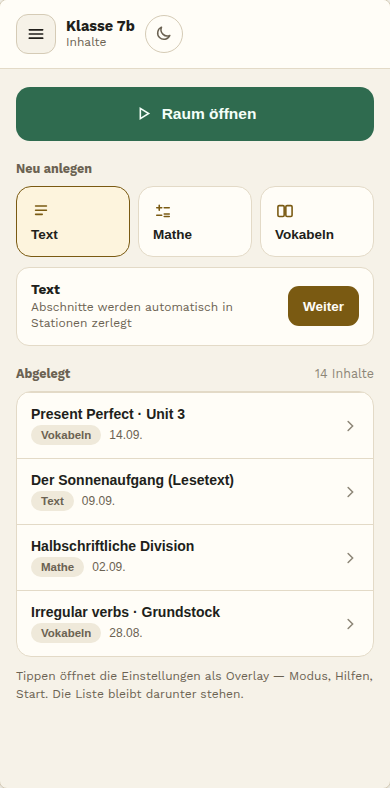
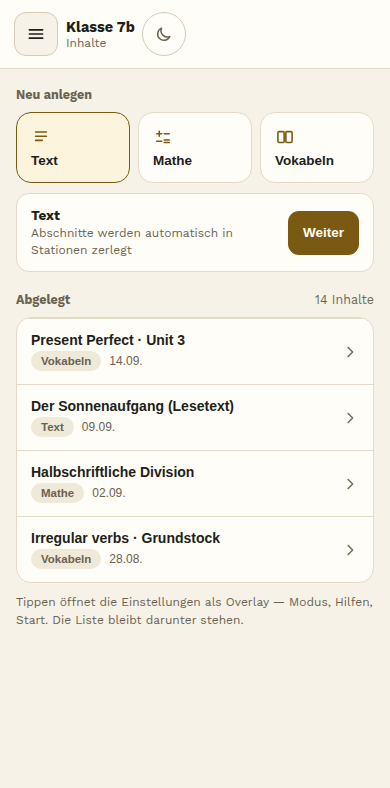
Lehrer-Inhalte: Knopf „Raum öffnen“ entfernt; Raum öffnet über Inhaltsart oder Eintrag
Claude-Session: https://claude.ai/code/session_01EHbnEvkH6C3v5ax3HGtdKW

diff --git a/app/views/lehrer/content-library-screen.tsx b/app/views/lehrer/content-library-screen.tsx
@@ -73,12 +73,11 @@ export type ContentLibraryScreenProps = {
   onEdit?: (id: string) => void;
   /** Zeigt „Zuordnen“ je Zeile (Ansicht „Nicht zugeordnet“). */
   onAssign?: (id: string) => void;
-  onOpenRoom?: () => void;
 };
 
 /**
  * Inhalte des Lehrerbereichs (Design 3c mobil, 3d Desktop): Neu anlegen,
- * Ablage und der große Knopf „Raum öffnen“. Läuft im `TeacherFrame` und
+ * Ablage. Der Raum wird über eine Inhaltsart oder einen Eintrag geöffnet. Läuft im `TeacherFrame` und
  * reagiert auf dessen Breite.
  */
 export function ContentLibraryScreen(props: ContentLibraryScreenProps) {
@@ -95,13 +94,10 @@ export function ContentLibraryScreen(props: ContentLibraryScreenProps) {
     onOpen,
     onEdit,
     onAssign,
-    onOpenRoom,
   } = props;
   const selected = KINDS[kind];
   return (
     <div className={styles.content}>
-      <OpenRoomButton className={styles.openTop} onClick={onOpenRoom} />
-
       <section className={styles.section} aria-labelledby="neu-anlegen">
         <span id="neu-anlegen" className={styles.label}>
           Neu anlegen
@@ -237,37 +233,11 @@ export function ContentLibraryScreen(props: ContentLibraryScreenProps) {
         {footnote ? <p className={styles.footnote}>{footnote}</p> : null}
       </section>
 
-      <OpenRoomButton className={styles.openBottom} onClick={onOpenRoom} />
       {notice ? (
         <aside className={styles.notice} aria-label="Hinweis">
           {notice}
         </aside>
       ) : null}
     </div>
-  );
-}
-
-function OpenRoomButton({
-  className,
-  onClick,
-}: {
-  className: string;
-  onClick: (() => void) | undefined;
-}) {
-  return (
-    <button type="button" className={className} onClick={onClick}>
-      <svg
-        viewBox="0 0 24 24"
-        fill="none"
-        stroke="currentColor"
-        strokeWidth="2"
-        strokeLinecap="round"
-        aria-hidden="true"
-        focusable="false"
-      >
-        <path d="M8 5.5 18.5 12 8 18.5z" />
-      </svg>
-      Raum öffnen
-    </button>
   );
 }

diff --git a/e2e/platform-quality.spec.ts b/e2e/platform-quality.spec.ts
@@ -677,11 +677,15 @@ test("teachers can prepare every native live-room content type", async ({
     page.getByText("Dieses Gerät ist die Schutzgrenze."),
   ).toHaveCount(1);
   await expect(page.getByText("Lehrer-Login")).toHaveCount(0);
-  // Der große Knopf „Raum öffnen“ führt zum Laufdiktat (mobil oben, am Desktop unten).
-  await expect(async () => {
-    await page.getByRole("button", { name: "Raum öffnen" }).first().click();
-    await expect(page).toHaveURL(/\/lehrer\/live$/, { timeout: 1500 });
-  }).toPass();
+  // Kein eigener Knopf „Raum öffnen“: Eine Inhaltsart führt zum Laufdiktat
+  // (mobil wählt die Kachel nur, „Weiter“ öffnet).
+  await expect(page.getByRole("button", { name: "Raum öffnen" })).toHaveCount(
+    0,
+  );
+  await page.getByRole("button", { name: /^Mathe/ }).click();
+  const next = page.getByRole("button", { name: "Weiter", exact: true });
+  if (await next.isVisible()) await next.click();
+  await expect(page).toHaveURL(/\/lehrer\/live\?neu=math/);
   await page.goBack();
   await expect(
     page.getByRole("heading", { name: "Wortliste vorbereiten" }),

diff --git a/app/views/lehrer/content-library-screen.module.css b/app/views/lehrer/content-library-screen.module.css
@@ -20,41 +20,8 @@
   color: var(--ink2);
 }
 .wideOnly,
-.openBottom,
 .tileText {
   display: none;
-}
-
-/* ---------- Raum öffnen ---------- */
-.openTop,
-.openBottom {
-  align-items: center;
-  gap: 9px;
-  border: 0;
-  background: var(--green);
-  color: var(--green-ink);
-  font-weight: 700;
-  cursor: pointer;
-}
-.openTop {
-  display: inline-flex;
-  justify-content: center;
-  width: 100%;
-  min-height: 54px;
-  border-radius: 14px;
-  font-size: 15.5px;
-}
-.openTop svg {
-  width: 19px;
-  height: 19px;
-}
-.openTop:hover,
-.openBottom:hover {
-  filter: brightness(1.12);
-}
-.openBottom svg {
-  width: 18px;
-  height: 18px;
 }
 
 /* ---------- Neu anlegen ---------- */
@@ -253,7 +220,6 @@
   .wideOnly {
     display: inline;
   }
-  .openTop,
   .list.narrowList,
   .panel {
     display: none;
@@ -266,13 +232,6 @@
   }
   .list.wideList {
     display: flex;
-  }
-  .openBottom {
-    display: inline-flex;
-    min-height: 46px;
-    padding: 0 20px;
-    border-radius: 12px;
-    font-size: 14.5px;
   }
   .tiles {
     grid-template-columns: repeat(3, 1fr);

diff --git a/app/lehrer/content-library.test.tsx b/app/lehrer/content-library.test.tsx
@@ -244,7 +244,7 @@ describe("Inhalte-Seite: Zuordnen", () => {
 });
 
 describe("Inhalte-Seite: Wege", () => {
-  it("führt Bearbeiten, Öffnen, Neu anlegen und Raum öffnen zum Laufdiktat", async () => {
+  it("führt Bearbeiten, Öffnen und Neu anlegen zum Laufdiktat", async () => {
     await createTeacherContentLibraryRepository().put(
       entry("x", { classIds: [CLASS_A] }),
     );
@@ -266,12 +266,10 @@ describe("Inhalte-Seite: Wege", () => {
     expect(window.location.pathname + window.location.search).toBe(
       `/lehrer/live?neu=math&klasse=${CLASS_A}`,
     );
-
-    window.history.replaceState(null, "", `/lehrer?klasse=${CLASS_A}`);
-    await user.click(
-      screen.getAllByRole("button", { name: "Raum öffnen" })[0]!,
-    );
-    expect(window.location.pathname).toBe("/lehrer/live");
+    // Kein eigener Knopf „Raum öffnen“: Der Weg führt über Art oder Eintrag.
+    expect(
+      screen.queryByRole("button", { name: "Raum öffnen" }),
+    ).not.toBeInTheDocument();
   });
 });
 

diff --git a/app/views/lehrer/lehrer-views.test.tsx b/app/views/lehrer/lehrer-views.test.tsx
@@ -160,13 +160,12 @@ describe("TeacherFrame", () => {
 });
 
 describe("ContentLibraryScreen", () => {
-  it("meldet Art, Anlegen, Öffnen, Bearbeiten und Raum öffnen", async () => {
+  it("meldet Art, Anlegen, Öffnen und Bearbeiten", async () => {
     const handlers = {
       onKind: vi.fn(),
       onCreate: vi.fn(),
       onOpen: vi.fn(),
       onEdit: vi.fn(),
-      onOpenRoom: vi.fn(),
     };
     render(
       <ContentLibraryScreen
@@ -207,12 +206,9 @@ describe("ContentLibraryScreen", () => {
     );
     expect(handlers.onOpen).toHaveBeenCalledWith("division");
 
-    for (const button of screen.getAllByRole("button", {
-      name: "Raum öffnen",
-    })) {
-      await userEvent.click(button);
-    }
-    expect(handlers.onOpenRoom).toHaveBeenCalledTimes(2);
+    expect(
+      screen.queryByRole("button", { name: "Raum öffnen" }),
+    ).not.toBeInTheDocument();
   });
 
   it("zeigt „Zuordnen“ nur mit onAssign", async () => {

diff --git a/app/entwicklung/screens/registry.tsx b/app/entwicklung/screens/registry.tsx
@@ -187,7 +187,6 @@ function TeacherDemo({ variant, theme }: { variant: string; theme: Theme }) {
           footnote={DEMO_FOOTNOTE}
           onKind={setKind}
           onOpen={() => setSheetOpen(true)}
-          onOpenRoom={() => setSheetOpen(true)}
         />
         <StartSheet
           open={sheetOpen}

diff --git a/app/views/lehrer/content-library-screen.module.css.d.ts b/app/views/lehrer/content-library-screen.module.css.d.ts
@@ -14,9 +14,7 @@ declare const styles: {
   readonly narrowList: string;
   readonly next: string;
   readonly notice: string;
-  readonly openBottom: string;
   readonly openButton: string;
-  readonly openTop: string;
   readonly panel: string;
   readonly panelHint: string;
   readonly panelText: string;

diff --git a/app/lehrer/use-content-library.ts b/app/lehrer/use-content-library.ts
@@ -259,7 +259,6 @@ export function useContentLibrary(): {
             },
           }
         : {}),
-      onOpenRoom: () => router.push("/lehrer/live"),
     },
     start: {
       open: startTarget !== undefined,

diff --git a/docs/umsetzungsplan-lernraum-ui-v2.md b/docs/umsetzungsplan-lernraum-ui-v2.md
@@ -43,6 +43,7 @@ Beim Nachmessen der Vorlage fielen drei Browser-Standards auf, die das Aussehen 
 - Fehlerbalken im Live-Screen sind proportional zur Fehlerzahl; die Vorlage zeigt feste Beispielbreiten.
 - Der Raumcode bleibt vierstellig numerisch (Supabase-Vertrag). Die Beispieldaten nutzen „4K2P“ nur, um die Vorlage exakt abzubilden.
 - **5a/5b Laufdiktat Schüler, Warten und Lesen:** Wie im Original-Laufdiktat zeigt der Wartezustand nur eine Hinweiszeile und zwei dezente Randleisten, die Lesephase nur das Wort in automatisch angepasster Größe (28–88 px, Stationen bis 72 px). Es gibt keine Infokarte, keinen Knopf „Aufgabe zeigen“/„Jetzt schreiben“ und keine Randflächen beim Halten; aufgedeckt wird nur durch Halten (zwei Finger oder die Tasten A und L). Grund: Der Knopf führte zu einem Zwischenbildschirm und zwei Taps pro Wort. Die Referenzbilder `5a-hold`, `5a-read`, `5b-hold`, `5b-read` stammen deshalb aus dem Rendering dieser Ansicht, nicht aus der Vorlage.
+- **3c/3d Inhalte:** Der große Knopf „Raum öffnen“ (mobil oben, am Desktop unten) entfällt. Ein Raum wird über eine Inhaltsart („Neu anlegen“) oder einen Eintrag der Ablage geöffnet; ein zweiter Weg ist nicht nötig. Die Referenzbilder `3c`, `3c-nav`, `3d` und `3d-dark` stammen deshalb aus dem Rendering dieser Ansicht.
 - **5c (mobil):** „Ergebnisse als CSV“ steht als eigene Schaltfläche unter der Schüler- bzw. Stationsliste (volle Breite, mind. 44 px). Die Vorlage zeigt sie nicht; eine Kernfunktion darf auf dem Handy nicht fehlen. Ab 900 px bleibt sie im Kopf der Schülerliste, sichtbar ist immer genau eine. Im Designvergleich wird sie über `hide` in `screens.json` entfernt (eine `mask` genügt nicht, weil die Schaltfläche die Fehlerliste verschiebt).
 - **Lehrerbereich (3c/3d):**
   - Start-Overlay: Es zeigt die vier echten Modi des Laufdiktats statt der drei vereinfachten der Vorlage (Laufdiktat/Test/Üben) und keine Schalter für „Selbstkorrektur“ und „Punkte“, die es fachlich nicht gibt. Der Raumcode erscheint erst in der Lobby, weil er beim Erstellen des Raums entsteht. Das Overlay hat keine Referenzbilder; die Ansicht steht nur im Katalog (`3c-start`, `3d-start`).
